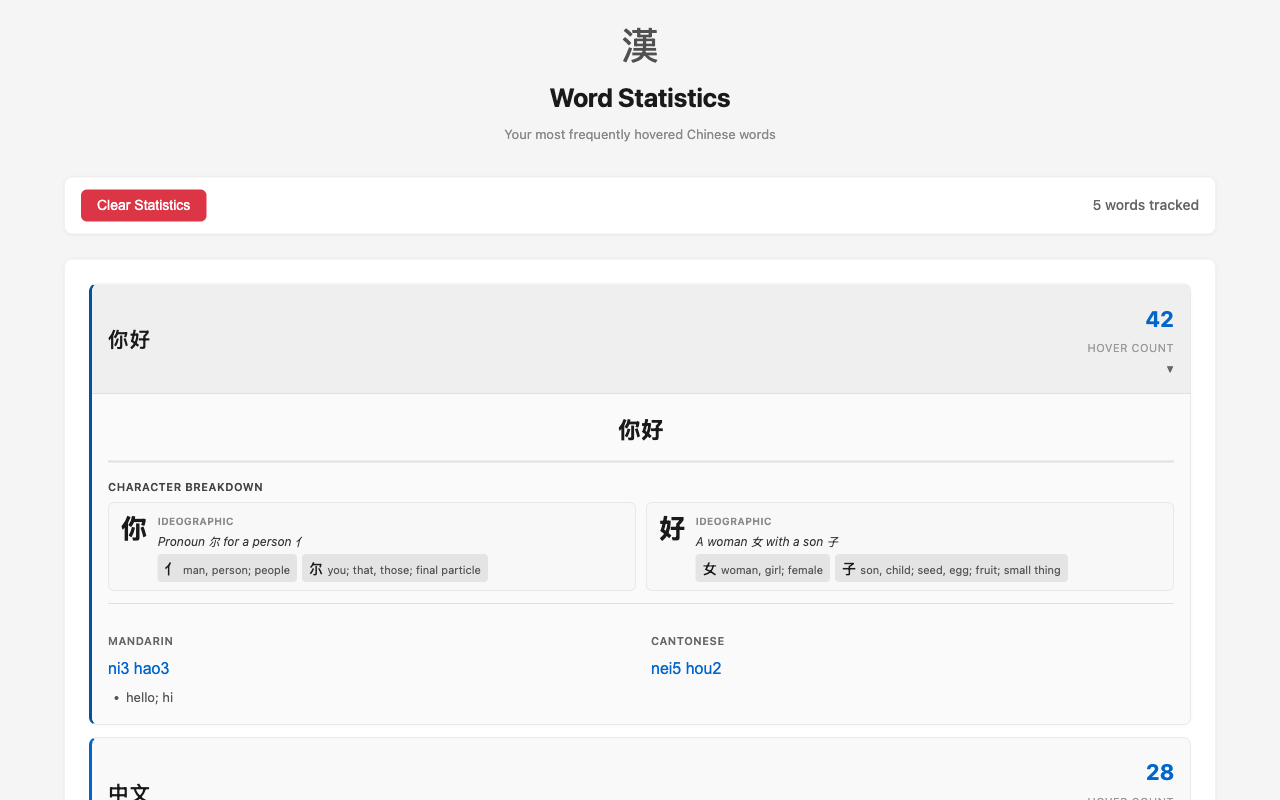
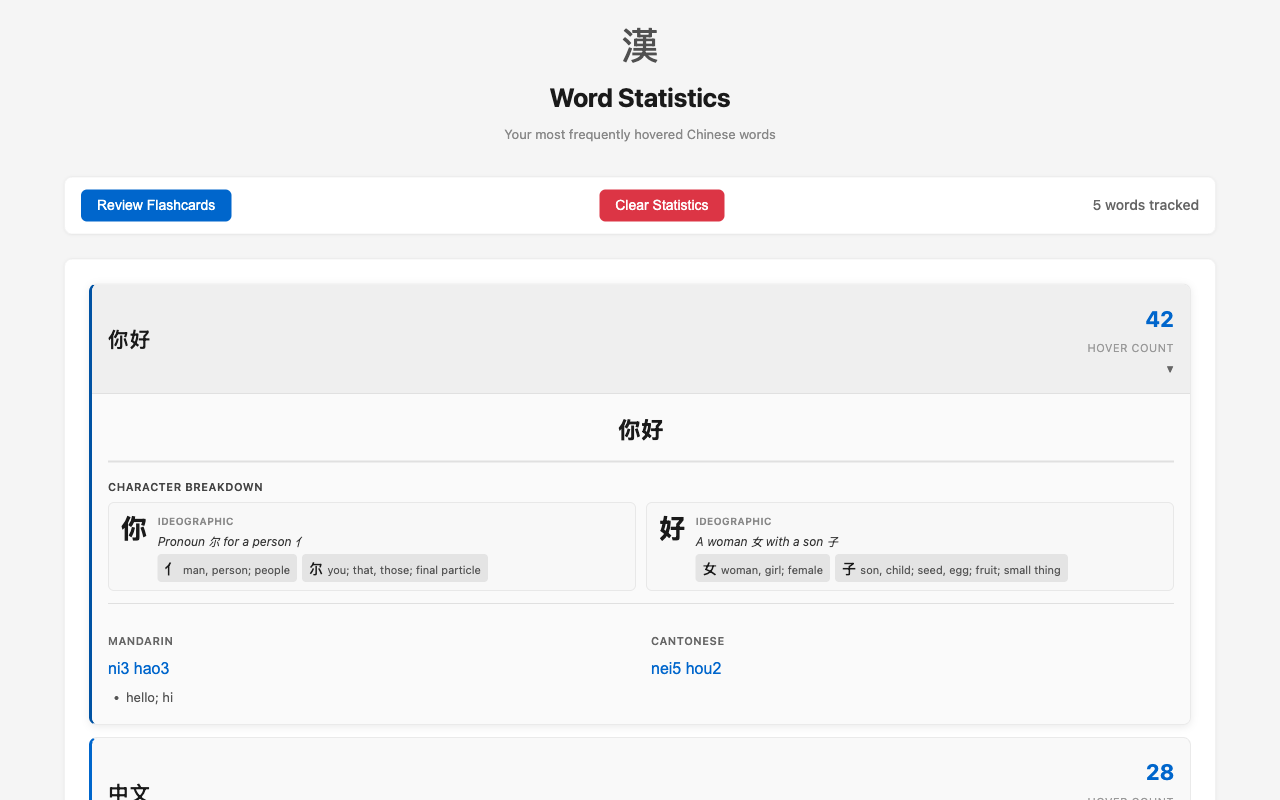
feat(build, flashcard): Add flashcard review screenshot to README and screenshot pipeline

Changed region(s): [[0.0625, 0.2188, 0.1875, 0.2812], [0.4688, 0.2188, 0.5625, 0.2812]]

diff --git a/build-tools/generate-screenshots.ts b/build-tools/generate-screenshots.ts
@@ -26,6 +26,13 @@ const sampleStats: Statistics = {
   '香港': { count: 8, firstSeen: Date.now(), lastSeen: Date.now() },
 };
 
+// Sample statistics data for flashcard screenshot — 粵語 leads so it appears as the first card
+const flashcardSampleStats: Statistics = {
+  '粵語': { count: 42, firstSeen: Date.now(), lastSeen: Date.now() },
+  '學習': { count: 28, firstSeen: Date.now(), lastSeen: Date.now() },
+  '香港': { count: 15, firstSeen: Date.now(), lastSeen: Date.now() },
+};
+
 async function findExtensionId(browser: Browser): Promise<string> {
   // Navigate to chrome://extensions to find the extension ID
   const page = await browser.newPage();
@@ -110,7 +117,7 @@ async function triggerChinesePopup(page: Page): Promise<void> {
   await new Promise(resolve => setTimeout(resolve, 500));
 }
 
-async function injectSampleStatistics(page: Page, extensionId: string): Promise<void> {
+async function injectSampleStatistics(page: Page, extensionId: string, stats: Statistics = sampleStats): Promise<void> {
   // Navigate to stats page to inject sample data
   const statsUrl = `chrome-extension://${extensionId}/src/stats/stats.html`;
   await page.goto(statsUrl);
@@ -118,7 +125,7 @@ async function injectSampleStatistics(page: Page, extensionId: string): Promise<
   // Inject sample statistics into chrome.storage.sync (key: wordStatistics)
   await page.evaluate(async (stats) => {
     await chrome.storage.sync.set({ wordStatistics: stats });
-  }, sampleStats);
+  }, stats);
 
   // Reload the page to show the injected stats
   await page.reload();
@@ -228,6 +235,35 @@ async function captureStatsScreenshot(
   await page.screenshot({ path: outputPath, type: 'png', clip: VIEWPORT_CLIP });
 }
 
+async function captureFlashcardScreenshot(
+  page: Page,
+  extensionId: string,
+  outputPath: string
+): Promise<void> {
+  await page.emulateMediaFeatures([{ name: 'prefers-color-scheme', value: 'light' }]);
+
+  console.log('[Screenshots] Injecting sample statistics for flashcards...');
+  await injectSampleStatistics(page, extensionId, flashcardSampleStats);
+
+  console.log('[Screenshots] Navigating to flashcard page...');
+  await page.goto(`chrome-extension://${extensionId}/src/flashcards/flashcards.html`);
+
+  await page.waitForFunction(
+    () => {
+      const el = document.getElementById('review');
+      return el && el.style.display !== 'none';
+    },
+    { timeout: 10000 }
+  );
+
+  await page.click('#show-answer-btn');
+  await page.waitForSelector('.definition-container', { visible: true, timeout: 15000 });
+  await new Promise(resolve => setTimeout(resolve, 300));
+
+  console.log('[Screenshots] Capturing flashcard-review.png (1280×800)...');
+  await page.screenshot({ path: outputPath, type: 'png', clip: VIEWPORT_CLIP });
+}
+
 async function captureDarkModeScreenshot(page: Page, outputPath: string): Promise<void> {
   await prepareHoverPopup(page, 'dark');
 
@@ -308,6 +344,13 @@ async function generateScreenshots(): Promise<void> {
       page,
       extensionId,
       join(screenshotsDir, 'statistics.png')
+    );
+
+    // Capture flashcard review screenshot
+    await captureFlashcardScreenshot(
+      page,
+      extensionId,
+      join(screenshotsDir, 'flashcard-review.png')
     );
 
     // Capture dark mode screenshot (hover popup in dark theme)

diff --git a/README.md b/README.md
@@ -10,6 +10,7 @@ A Chrome extension that displays Chinese word definitions in both Mandarin and C
 - **Dual Language Support**: Shows definitions in both Mandarin (with Pinyin) and Cantonese (with Jyutping)
 - **Works Everywhere**: Functions on any website with Chinese text
 - **Word Statistics**: Tracks your most frequently looked-up words
+- **Flashcard Review**: Spaced-repetition review of your looked-up words
 - **Multi-word Selection**: Select multiple characters to look up phrases
 - **Radical Breakdown**: Per-character etymology with radical, structure (IDS decomposition), and pictographic/ideographic/pictophonetic hints
 - **Dark Mode Support**: Automatically adapts to your system theme
@@ -27,6 +28,11 @@ A Chrome extension that displays Chinese word definitions in both Mandarin and C
 ![Statistics page](screenshots/statistics.png)
 
 *Track your most frequently looked-up words*
+
+### Flashcard Review
+![Flashcard review page](screenshots/flashcard-review.png)
+
+*Review your looked-up words with spaced repetition*
 
 ### Dark Mode
 ![Dark mode support](screenshots/dark-mode.png)
@@ -87,7 +93,7 @@ To clean build artifacts:
 pnpm clean
 ```
 
-To regenerate the screenshots used in the README and store listing (builds the extension, then launches Chrome to capture hover-popup, statistics, and dark-mode screenshots):
+To regenerate the screenshots used in the README and store listing (builds the extension, then launches Chrome to capture hover-popup, statistics, flashcard-review, and dark-mode screenshots):
 ```bash
 pnpm screenshots
 ```
@@ -107,6 +113,8 @@ Screenshots are written to `screenshots/`. Chrome runs in headed mode because ex
    - Your most frequently looked-up words
    - Hover counts for each word
    - Detailed definitions for each tracked word
+
+4. **Flashcard review**: Once you've hovered over words at least twice, open the flashcard review page to quiz yourself with spaced repetition — rate each card as Again, Hard, Good, or Easy.
 
 ## Dictionary Resources
 
